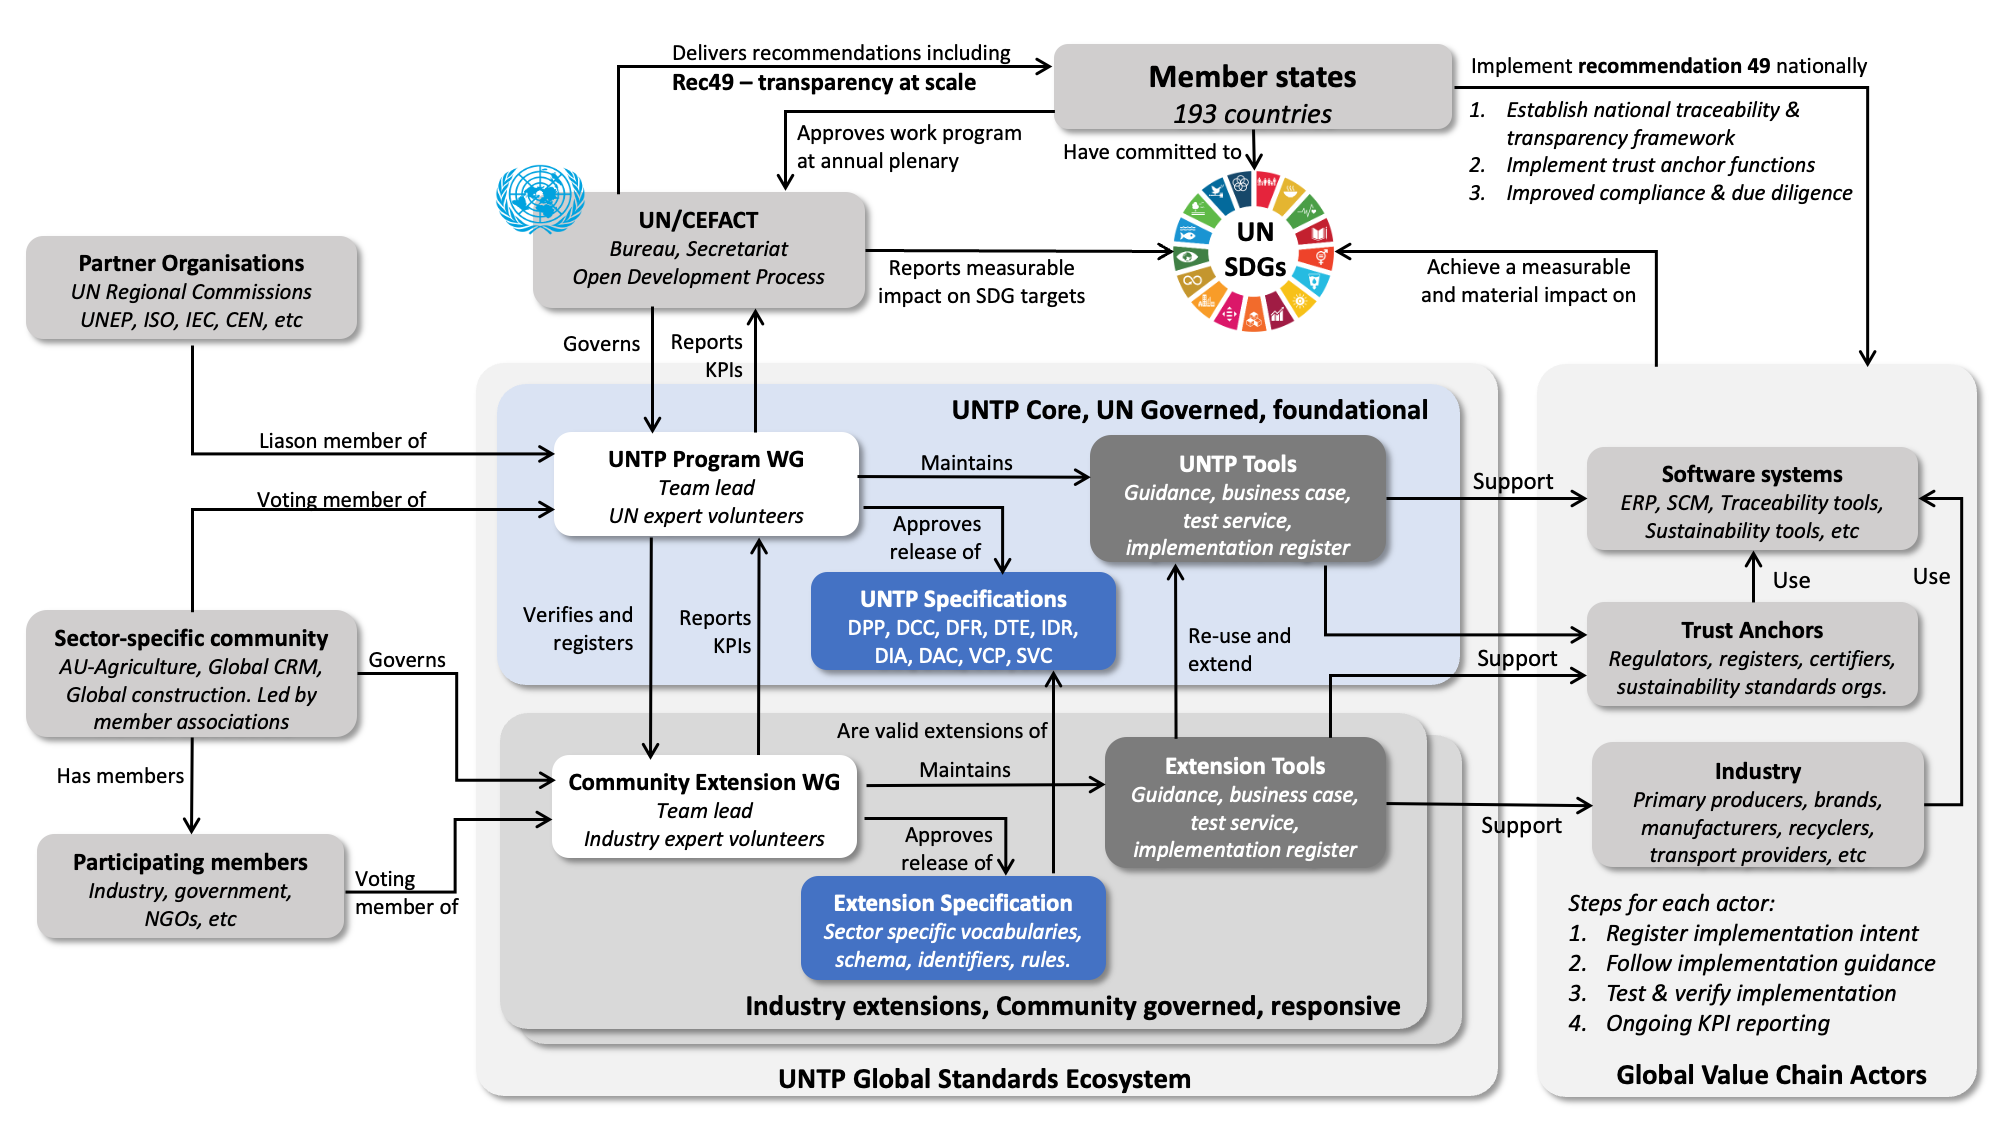
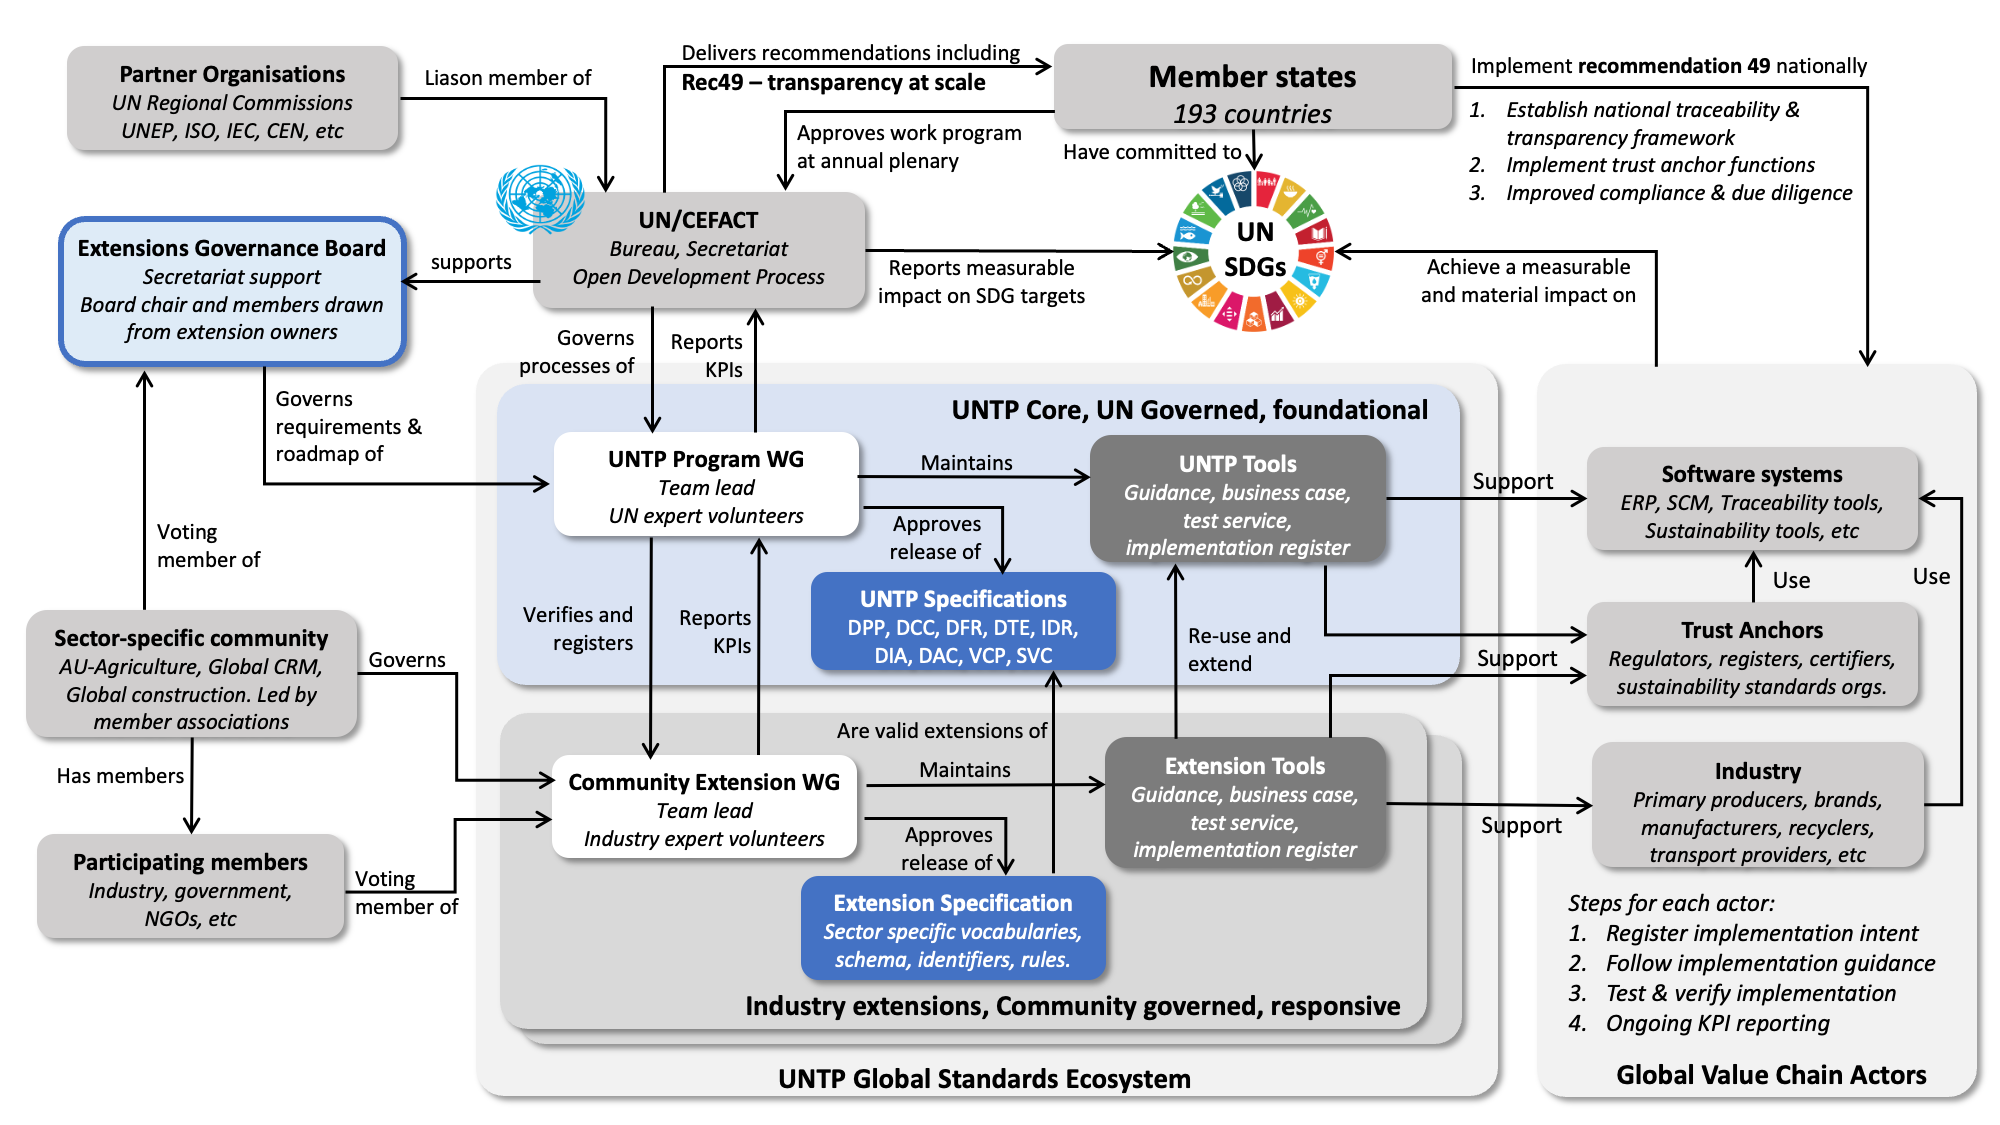
Update to add UNTP Extensions Governance Board

diff --git a/website/docs/about/Governance.md b/website/docs/about/Governance.md
@@ -36,18 +36,20 @@ UNTP aims to be the highest value and lowest cost framework for scaling traceabi
 
 ## UNTP Governance Details
 
-UNTP is one program within the overall UN/CEFACT governance framework. The diagram below shows how UNTP and recommendation 49 fit within the global UN/CEFACT governance framework and also specifically how UNTP extensions fit within the UNTP governance framework. Extensions are designed to accommodate industry or geographic specific needs of a specific community of implementers and are typically governed by a member association. To be formally [registered as  UNTP extension](../extensions), the extension must also be freely available under a [Creative Commons Attribution 4.0 International license](https://creativecommons.org/licenses/by/4.0/) and must be interoperable with UNTP specifications. 
+UNTP is one program within the overall UN/CEFACT governance framework. The diagram below shows how UNTP and recommendation 49 fit within the global UN/CEFACT governance framework and also specifically how UNTP extensions fit within the UNTP governance framework. Extensions are designed to accommodate industry or geographic specific needs of a specific community of implementers and are typically governed by a member association. To be formally [registered as  UNTP extension](../extensions), the extension must also be freely available under a [Creative Commons Attribution 4.0 International license](https://creativecommons.org/licenses/by/4.0/) and must be interoperable with UNTP specifications. An extensions governance board who's members include a voting member from each extension provides a means for communities that adopt UNTP to have a say about the roadmap and priorities for UNTP.
 
 ![UNTP Governance Framework](Governance.png)
 
 The diagram represents the following key governance concepts:
 
-* The UNTP Program Working Group maintains this site and comprises members from UN expert community and sector specific communities. 
-* UNTP comprises a suite of version-managed [technical specifications](../specification) as well as some supporting tools that include [implementation guidance](../tools-and-support), [business case](../business-case), [best practices](../design-patterns), [test services](../tools-and-support/TestService.md), and an [implementations register](../implementations).
-* The tooling ensures that implementation is as simple and cost effective as possible and also that implementations are interoperable since all implementations must pass the same test cases. 
-* UNTP extensions working groups develop industry and/or geography specific extensions of UNTP following a [methodology](../extensions/ExtensionsMethodology.md) that ensures all extensions remain interoperable with UNTP core implementations and any other industry extension. 
-* Extensions are governed by the community that creates them, usually led by a representative member association. Extensions will typically include sector specific vocabularies, specific credential schema (eg a livestock passport as an extension of a product passport) and specific rules and constraints such as allowed identifier schemes. 
-* Extensions must also provide test services to ensure interoperability between different implementers of the same extension specification. The generic UNTP test and reference implementation tooling is re-usable for this purpose. 
+* **UN/CEFACT** comprises a secretariat and an elected bureau and is governed by UN member states which approves the annual program of work and endorses key outputs such as policy recommendations.
+* A UNTP **Extensions Governance Board** includes a voting member from each registered UNTP extension and thereby provides a vehicle for collaboration across extensions and for directing the priorities and roadmap for UNTP. it is supported by the UN/CEFACT secretariat.
+* The **UNTP Program Working Group** maintains this site and comprises members from UN expert community and sector specific communities. It is governed from a process and quality perspective by the UN/CEFACT bureau.  It is also governed by the extensions governance board which sets priorities and roadmap for ongoing UNTP development.
+* UNTP comprises a suite of version-managed **[technical specifications](../specification)** as well as some supporting tools that include [implementation guidance](../tools-and-support), [business case](../business-case), [best practices](../design-patterns), [test services](../tools-and-support/TestService.md), and an [implementations register](../implementations).
+* The **UNTP tools** ensure that implementation is as simple and cost effective as possible and also that implementations are interoperable since all implementations must pass the same test cases. 
+* UNTP **Community Extensions Working Groups** develop industry and/or geography specific extensions of UNTP following a [methodology](../extensions/ExtensionsMethodology.md) that ensures all extensions remain interoperable with UNTP core implementations and any other industry extension. 
+* **Extension Specifications** are governed by the community that creates them, usually led by a representative member association. Extensions will typically include sector specific vocabularies, specific credential schema (eg a livestock passport as an extension of a product passport) and specific rules and constraints such as allowed identifier schemes and recognised conformity schemes. 
+* Extensions must also provide **Extension Tools** including services to ensure interoperability between different implementers of the same extension specification. The generic UNTP test and reference implementation tooling is re-usable for this purpose. 
 * All implementers that register their system or business on the UNTP website or an extension website are required to provide some basic KPI reporting (eg number of product passports issued) so that performance metrics can be rolled up from implementer to extension community and then up to UN/CEFACT and member states. The performance reporting framework is defined by the UNTP [Value Assessment Framework (VAF)](../business-case/ValueAssessmentFramework.md) and is designed to capture quantifiable performance measures that can be mapped to UN [Sustainable Development Goals](https://sdgs.un.org/goals) and Targets. Anonymised reporting and performance dashboards will be published by the UNTP program. 
 
 The diagram shows three classes of implementers within the global value chain.
